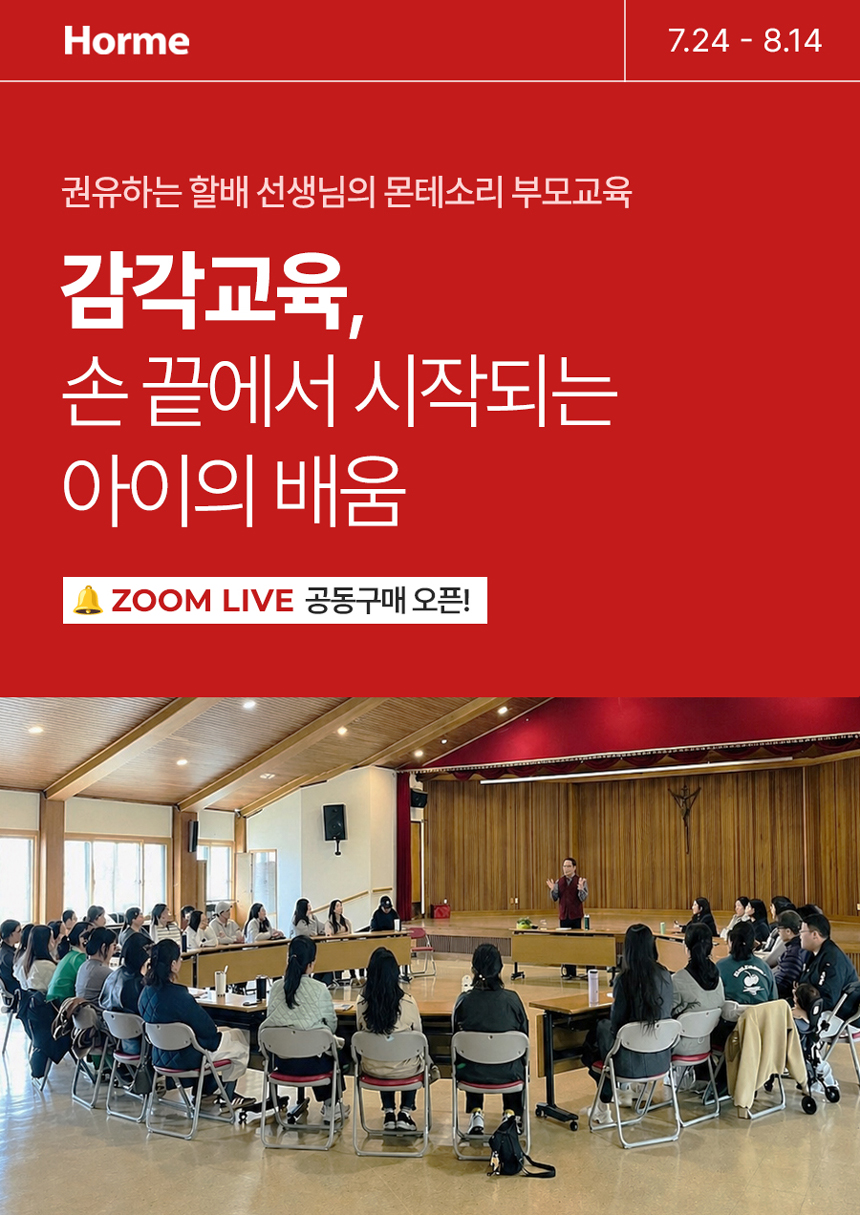
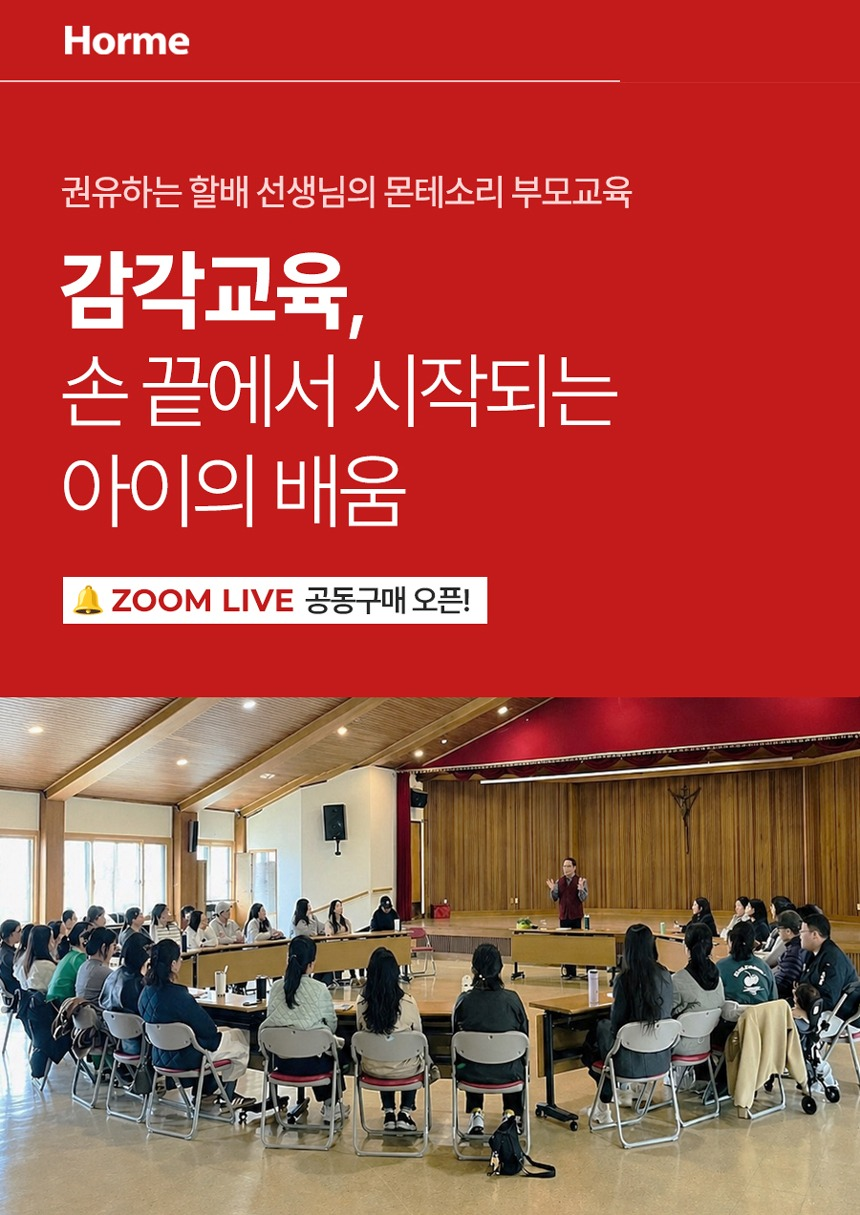
신청 설문 최상단 배치 + 4/5기 신규 일정 반영, 옛 날짜 이미지 정리

diff --git a/apply.html b/apply.html
@@ -42,6 +42,10 @@
     .submit-btn:hover:not(:disabled) { background: #6e1414; }
     .submit-btn:disabled { background: #bbb; cursor: not-allowed; }
     .detail-images img { width: 100%; display: block; }
+    .schedule-box { background: #fdf3f3; border: 1px solid #e8c8c8; border-radius: 6px; padding: 18px 20px 16px; margin-bottom: 28px; }
+    .schedule-box-title { font-size: 13px; font-weight: 800; color: #8B1A1A; letter-spacing: 0.3px; margin-bottom: 10px; }
+    .schedule-box-dates { font-size: 14.5px; color: #333; line-height: 1.9; font-weight: 600; }
+    .schedule-box-note { font-size: 12px; color: #999; margin-top: 8px; }
     .success-screen, .closed-screen, .error-screen { display: none; text-align: center; padding: 60px 20px; }
     .success-screen .icon, .closed-screen .icon, .error-screen .icon { font-size: 52px; margin-bottom: 14px; }
     .success-screen h3, .closed-screen h3, .error-screen h3 { font-size: 22px; font-weight: 800; color: #8B1A1A; margin-bottom: 12px; }
@@ -54,12 +58,16 @@
   <a href="index.html">← 교육 선택으로 돌아가기</a>
 </div>
 
-<div class="detail-images" id="detailImages"></div>
-
 <div class="form-wrap" id="formWrap">
   <div class="form-header" id="formHeader">
     <h2 id="headerTitle">수강 신청하기</h2>
     <p>아래 내용을 빠짐없이 작성해 주세요 ✍</p>
+  </div>
+
+  <div class="schedule-box" id="scheduleBox">
+    <div class="schedule-box-title">🗓 교육 일정</div>
+    <div class="schedule-box-dates" id="scheduleDates"></div>
+    <div class="schedule-box-note">※ 상세 커리큘럼은 하단 상세페이지 이미지를 참고해 주세요</div>
   </div>
 
   <div class="payment-box">
@@ -147,15 +155,17 @@
   </div>
 </div>
 
+<div class="detail-images" id="detailImages"></div>
+
 <script>
 /* ===== 기수 데이터 — index.html의 ROUNDS와 동일하게 유지 ===== */
 var ROUNDS = {
   3: { label: '3기', basic: { day:'목', time:'야간 9시~12시', startLabel:'7/23(목)', status:'closed' },
                       sensory: { day:'금', time:'야간 9시~12시', startLabel:'7/24(금)', status:'closed' } },
-  4: { label: '4기', basic: { day:'금', time:'오전 10:30~1:30', startLabel:'8/21(금)', status:'open' },
-                      sensory: { day:'목', time:'야간 9시~12시', startLabel:'8/20(목)', status:'open' } },
-  5: { label: '5기', basic: { day:'목', time:'야간 9시~12시', startLabel:'9/17(목)', status:'open' },
-                      sensory: { day:'금', time:'오전 10:30~1:30', startLabel:'9/18(금)', status:'open' } },
+  4: { label: '4기', basic: { day:'금', time:'오전 10:30~1:30', startLabel:'8/21(금)', status:'open', sessions:['8/21(금)','8/28(금)','9/4(금)','9/11(금)'] },
+                      sensory: { day:'목', time:'야간 9시~12시', startLabel:'8/20(목)', status:'open', sessions:['8/20(목)','8/27(목)','9/3(목)','9/10(목)'] } },
+  5: { label: '5기', basic: { day:'목', time:'야간 9시~12시', startLabel:'9/17(목)', status:'open', sessions:['9/17(목)','10/1(목)','10/8(목)','10/15(목)'] },
+                      sensory: { day:'금', time:'오전 10:30~1:30', startLabel:'9/18(금)', status:'open', sessions:['9/18(금)','10/2(금)','10/9(금)','10/16(금)'] } },
   6: { label: '6기', basic: { day:'금', time:'오전 10:30~1:30', startLabel:'10/23(금)', status:'waiting' },
                       sensory: { day:'목', time:'야간 9시~12시', startLabel:'10/22(목)', status:'waiting' } },
   7: { label: '7기', basic: { day:'목', time:'야간 9시~12시', startLabel:'11/19(목)', status:'waiting' },
@@ -220,23 +230,34 @@ var course = round && round[courseKey];
 if (!round || !course) {
   document.getElementById('signupForm').style.display = 'none';
   document.querySelector('.payment-box').style.display = 'none';
+  document.getElementById('scheduleBox').style.display = 'none';
   document.getElementById('errorScreen').style.display = 'block';
 } else if (course.status === 'closed') {
   renderDetailImages(courseKey);
   document.getElementById('headerTitle').textContent = round.label + ' ' + COURSE_NAME[courseKey] + ' 신청하기';
   document.getElementById('signupForm').style.display = 'none';
   document.querySelector('.payment-box').style.display = 'none';
+  document.getElementById('scheduleBox').style.display = 'none';
   document.getElementById('closedScreen').style.display = 'block';
 } else if (course.status === 'waiting') {
   renderDetailImages(courseKey);
   document.getElementById('headerTitle').textContent = round.label + ' ' + COURSE_NAME[courseKey] + ' 신청하기';
   document.getElementById('signupForm').style.display = 'none';
   document.querySelector('.payment-box').style.display = 'none';
+  document.getElementById('scheduleBox').style.display = 'none';
   document.getElementById('waitingScreen').style.display = 'block';
 } else {
   renderDetailImages(courseKey);
   document.getElementById('headerTitle').textContent = round.label + ' ' + COURSE_NAME[courseKey] + ' 신청하기';
   document.title = round.label + ' ' + COURSE_NAME[courseKey] + ' | 호르메 몬테소리 신청';
+
+  if (course.sessions && course.sessions.length) {
+    document.getElementById('scheduleDates').innerHTML = course.sessions.map(function(d, i) {
+      return (i+1) + '강 · ' + d + ' ' + course.time;
+    }).join('<br>');
+  } else {
+    document.getElementById('scheduleBox').style.display = 'none';
+  }
 
   var SCRIPT_URL = 'https://script.google.com/macros/s/AKfycbxXFtHC26Ak7YaiK1wl51SYZIgzQ7qYI6lanQtnYK3hrKdedfy5po0vqTz4ozteqHe0/exec';
 
